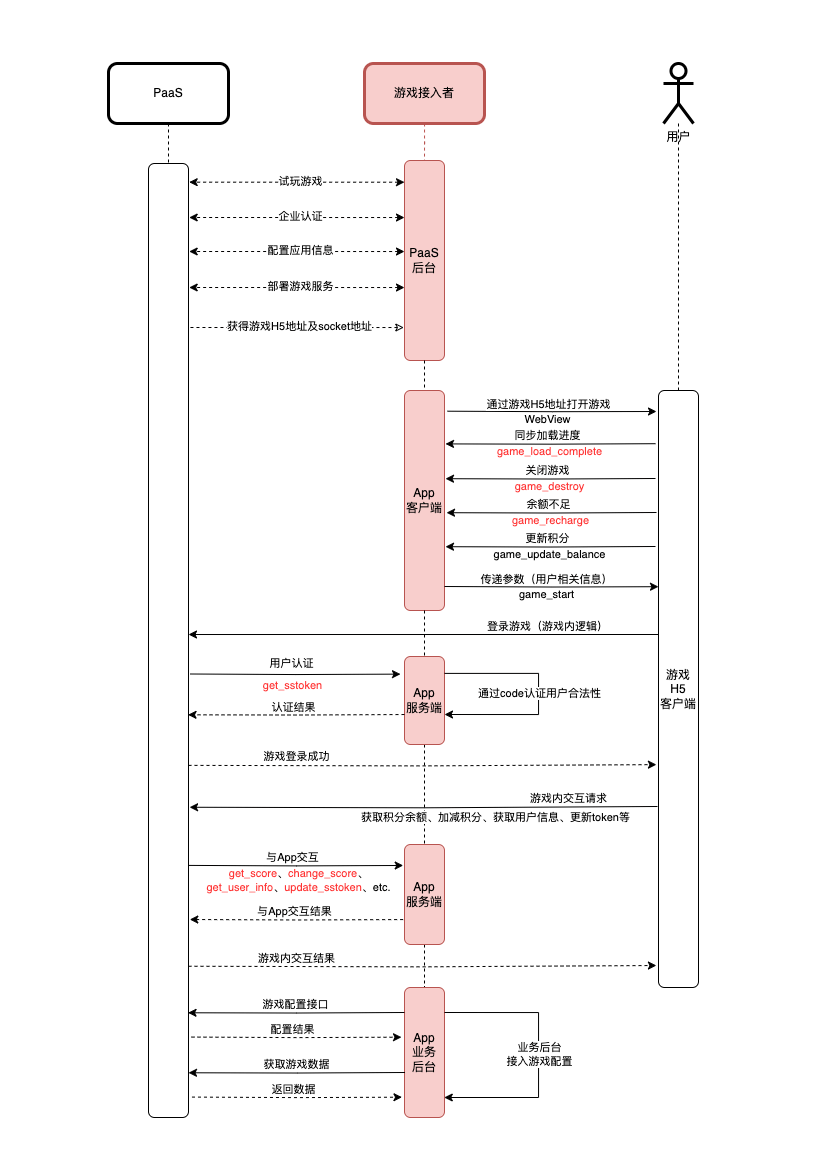
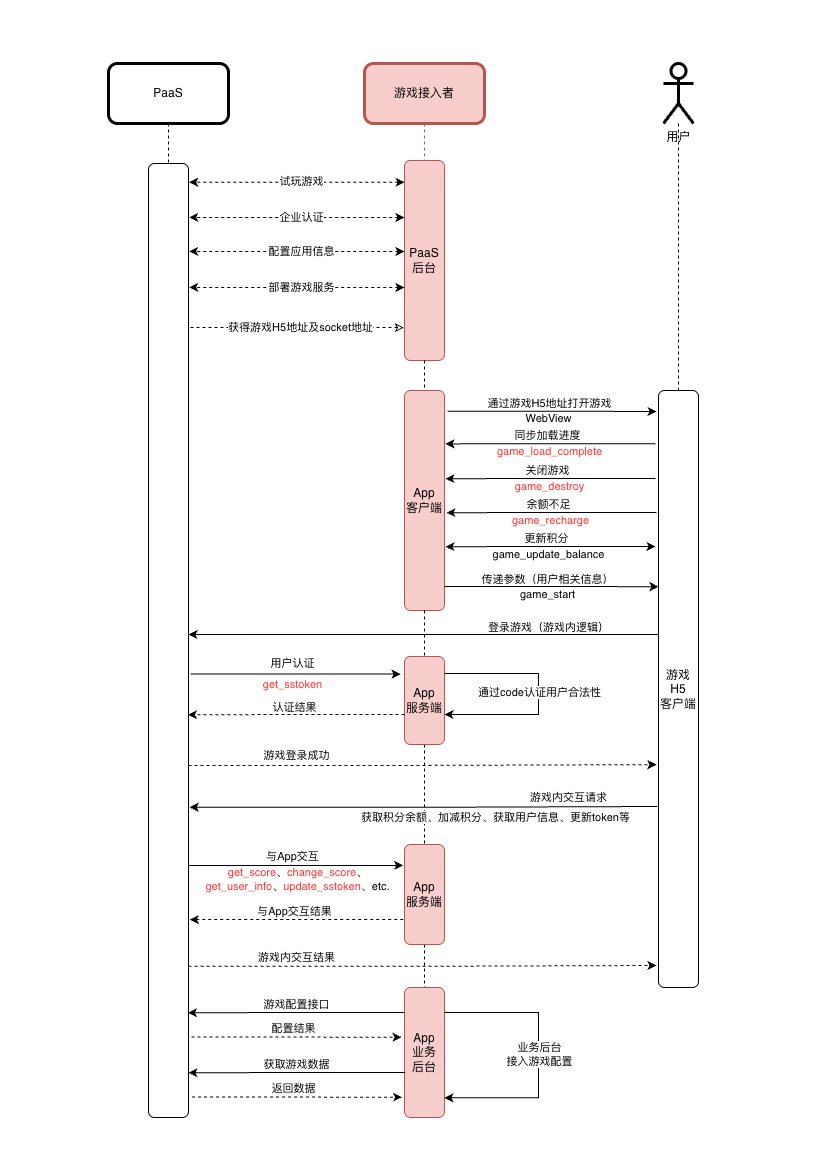
update docs

diff --git a/开发及接入流程/游戏开发流程.md b/开发及接入流程/游戏开发流程.md
@@ -136,15 +136,178 @@ on_socket_open() {
 
 - game_update_balance 更新游戏内积分余额
 ```typescript
-on_app_called_game_update_balance(user_id:number) {
+on_app_called_game_update_balance(json:string) {
+  //json例子:{user_id:10001,score:1000}
 	//通过游戏协议，查询用户最新积分余额
-	socket.send_get_balance(user_id);
+	socket.send_get_balance(json.user_id);
 }
 
 on_msg_get_balance(o:any, data:any) {
 	//更新UI上的余额显示
 }
+
+//通过js函数告知接入方移动端最新积分余额
+app.game_update_balance(score)
 ```
+**game_update_balance函数属于双方用来通知金币的函数，游戏可以通过这个函数通知客户端金币的变换，客户端也可以在充值成功后通知游戏更新用户积分，需要客户端主动调用并且传递如下参数:**
+
+
+
+5.移动端与游戏前端js交互实例(仅供参考)
+
+```typescript
+//用于与native交互（Android、iOS）
+export class native {
+    public static initJSFunctions() {
+        if (!DEBUG) {
+            if (native.getDeviceType() != 'iOS' && native.getDeviceType() != 'Android') {
+                console.log('Wrong Device Type: ', native.getDeviceType());
+                return;
+            }
+        }
+
+        let _window = window;
+        _window['game_update_balance'] = function(data:any){
+            //let j = JSON.parse(data);
+            if (util.mainObj) {
+                util.mainObj.nativeUpdateBalance(+data.userId, +data.score);
+            }
+        }
+
+        _window['game_start'] = function(data:any){
+            //let j = JSON.parse(data);
+            if (util.mainObj) {
+                util.mainObj.nativeStartGame(data);
+            }
+        }
+    }
+
+    public static getDeviceType():string {
+        if (DEBUG) {
+            return 'Debug';
+        }
+        var ua = window.navigator.userAgent.toLocaleLowerCase();
+        var isIOS = /iphone|ipad|ipod/.test(ua);
+        var isAndroid = /android/.test(ua);
+      
+        if (isIOS) return 'iOS';
+        else if (isAndroid) return 'Android';
+        else return 'Web';
+    }
+
+    public static gameLoadProgress(progress:number) {
+        try {
+            let _window = window;
+            switch(native.getDeviceType()) {
+                case 'iOS':
+                    _window["webkit"].messageHandlers.game_load_progress.postMessage(progress);
+                    break;
+                case 'Android':
+                    _window["App"].game_load_progress(progress);
+                    break;
+                case 'Debug':
+                    break;
+                default:
+                    console.log('web');
+                    break;
+            }
+        } catch(e) {
+            console.log('native loadProgress error:', e);
+        }
+    }
+
+    public static gameLoadComplete(type:string) {
+        try {
+            let _window = window;
+            switch(native.getDeviceType()) {
+                case 'iOS':
+                    _window["webkit"].messageHandlers.game_load_complete.postMessage(type);
+                    break;
+                case 'Android':
+                    _window["App"].game_load_complete(type);
+                    break;
+                case 'Debug':
+                    break;
+                default:
+                    console.log('web');
+                    break;
+            }
+        } catch(e) {
+            console.log('native loadComplete error:', e);
+        }
+    }
+
+    public static gameDestroy() {
+        try {
+            let _window = window;
+            switch(native.getDeviceType()) {
+                case 'iOS':
+                    _window["webkit"].messageHandlers.game_destroy.postMessage(null);
+                    break;
+                case 'Android':
+                    _window["App"].game_destroy();
+                    break;
+                case 'Debug':
+                    break;
+                default:
+                    console.log('web');
+                    break;
+            }
+        } catch(e) {
+            console.log('native gameDestroy error:', e);
+        }
+    }
+
+    public static gameRecharge(type:number) {
+        //type 1:余额不足提醒 2:跳转充值页面
+        try {
+            let _window = window;
+            switch(native.getDeviceType()) {
+                case 'iOS':
+                    _window["webkit"].messageHandlers.game_recharge.postMessage(type);
+                    break;
+                case 'Android':
+                    _window["App"].game_recharge(type);
+                    break;
+                case 'Debug':
+                    break;
+                default:
+                    console.log('web');
+                    break;
+            }
+        } catch(e) {
+            console.log('native gameRecharge error:', e);
+        }
+    }
+
+    public static updateGold(gold:number) {
+        try {
+            let _window = window;
+            switch(native.getDeviceType()) {
+                case 'iOS':
+                    _window["webkit"].messageHandlers.game_update_balance.postMessage(gold);
+                    break;
+                case 'Android':
+                    _window["App"].game_update_balance(gold);
+                    break;
+                case 'Debug':
+                    break;
+                default:
+                    console.log('web');
+                    break;
+            }
+        } catch(e) {
+            console.log('native updateGold error:', e);
+        }
+    }
+}
+
+```
+
+
+
+
+
 #### 打包发布
 
 以cocos creator为例，开发者仅需提供打包好的、包含index.html文件的完整文件夹即可。
@@ -295,6 +458,24 @@ http.Post("https://...", string(r)) //api_get_sstoken
 1. :3335/callback/health 健康检查接口 （[接口说明](../DevAPI/Health.md)）
 2. :3335/callback/inform 通知接口 （[接口说明](../DevAPI/Inform.md)）
 > 注意：PaaS要求游戏后台服务须总是监听在3335端口。
+
+## 高级用法
+
+### user_data
+
+user_data 是自定义参数（约定为json字符串），游戏可以使用user_data实现传递参数、匹配机制等高级用法。
+游戏需要实现user_data从客户端到服务端接口的透传，在此基础上，可以用于其他高级用法。
+
+基础用法（必须实现）：
+1. 客户端传递参数给游戏，可对user_data进行参数设计，比如 {room_id:1000} 用于代表该用户打开游戏所在的直播间ID为1000
+2. 游戏客户端通过登录协议，将 user_data 内容传递到PaaS，PaaS在调用用户认证接口 get_sstoken 时，将其传递给 App 服务端接口，再由 App 服务端根据这个参数，进行逻辑判断
+3. get_sstoken 认证完成后，接口会返回另外一个 user_data，拿到这个 user_data ，在游戏调用 change_score 时传递给 App 服务端接口，做其他逻辑判断使用
+
+高阶用法（可选）：
+1. 匹配机制。游戏登录时，传递房间号、桌号，给游戏服务端，根据这些信息实现用户间的按桌匹配逻辑。
+2. 参数加密。user_data 内携带的一些参数，App 可实现自己的加密逻辑，而游戏方不必关心，完成透传即可。
+
+如果游戏实现了除参数透传以外的其他高级用法，需要在游戏的介绍中提供用法说明。
 
 ### 服务打包
 

diff --git a/DevAPI/post_inform.md b/DevAPI/post_inform.md
@@ -23,6 +23,15 @@ POST请求
 | 参数名      | 类型   | 是否必填 | 说明       |
 | ----------- | ------ | -------- | ---------- |
 | instance_id | String | 是       | 游戏实例ID |
+| type        | String | 是       | 类型       |
+| data        | Object | 是       | 数据       |
+
+**参数说明**
+
+1. type类型如下:
+   * instance_status_started: 启动成功/失败通知
+   * instance_status_can_maintance: 可维护通知
+2. 启动成功/失败通知，在实例启动后发送；可维护通知，在维护流程中发送
 
 
 
@@ -30,7 +39,10 @@ POST请求
 
 ```json
 {
-    "instance_id": "2503191624bSur6F" 
+  "instance_id": "2503191624bSur6F",
+  "type": "",
+  "data": {}
+  
 }
 ```
 
@@ -42,9 +54,6 @@ POST请求
 | ------- | ------ | -------- |
 | code    | Int32  | 返回码   |
 | message | String | 结果描述 |
-| data    | Object | 配置信息 |
-| └ type  | String | 类型     |
-| └ data  | Object | 数据     |
 
 
 
@@ -54,19 +63,8 @@ POST请求
 {
     "code": 0,
     "message": "worth till into regularly",
-    "data": {
-        "type": "",
-        "data": {}
-    }
 }
 ```
-
-**参数说明**
-
-1. type类型如下:
-   * instance_status_started: 启动成功/失败通知
-   * instance_status_can_maintance: 可维护通知
-2. 启动成功/失败通知，在实例启动后发送；可维护通知，在维护流程中发送
 
 ### 返回码
 
